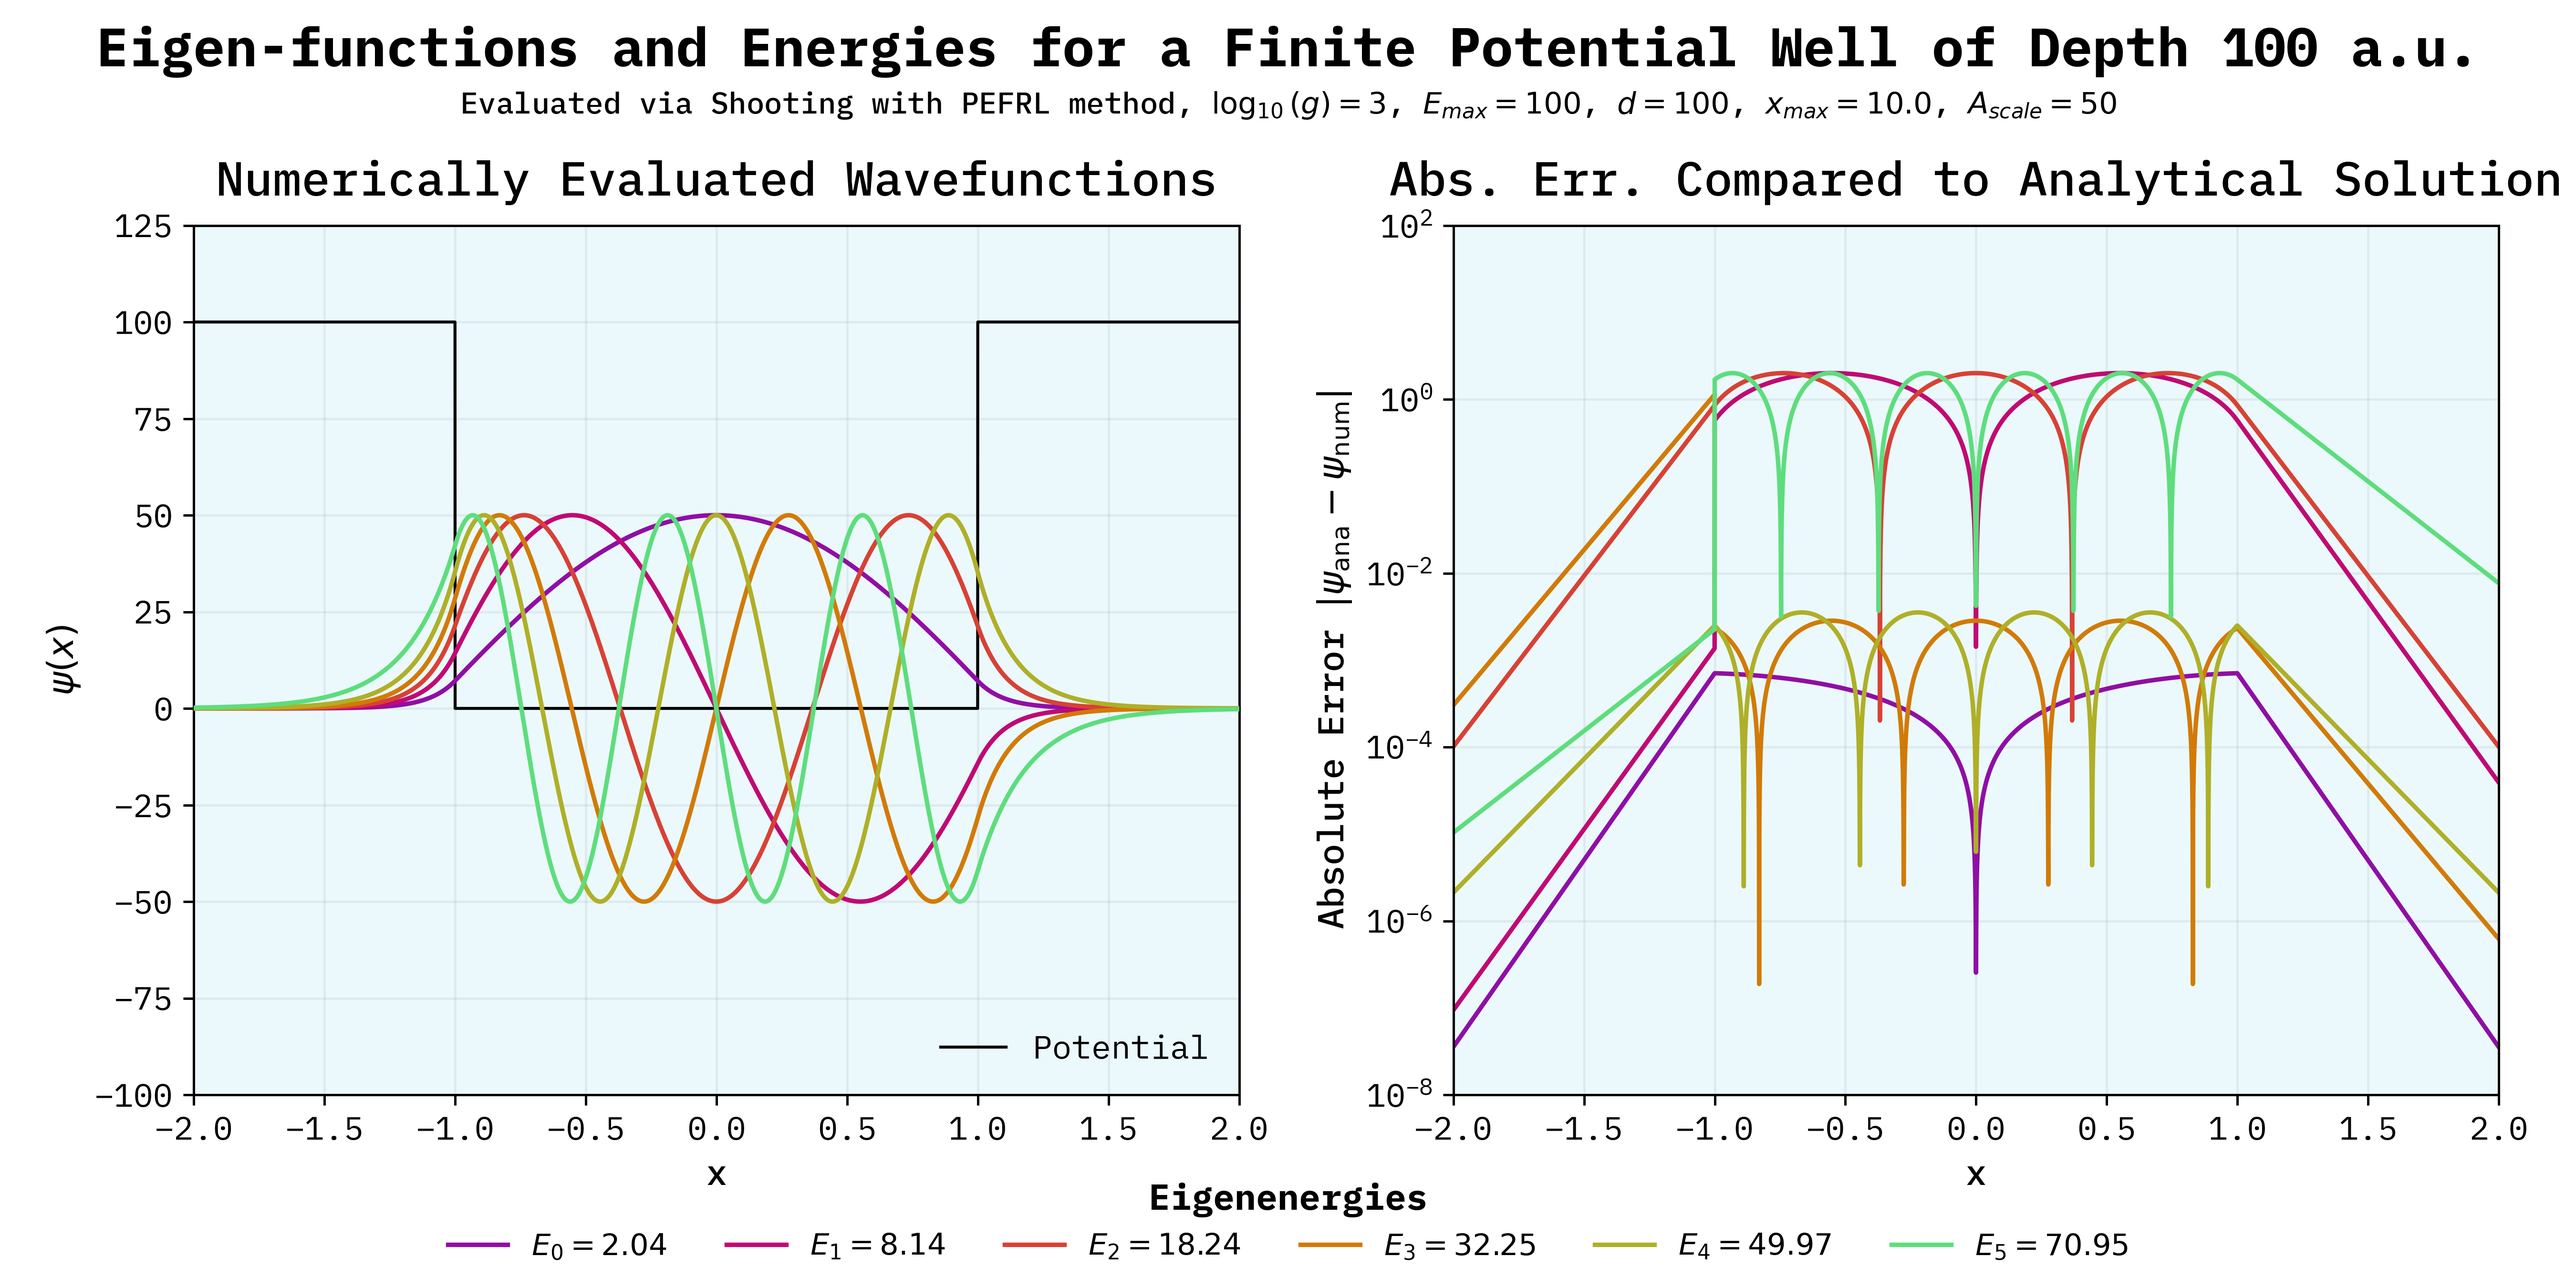
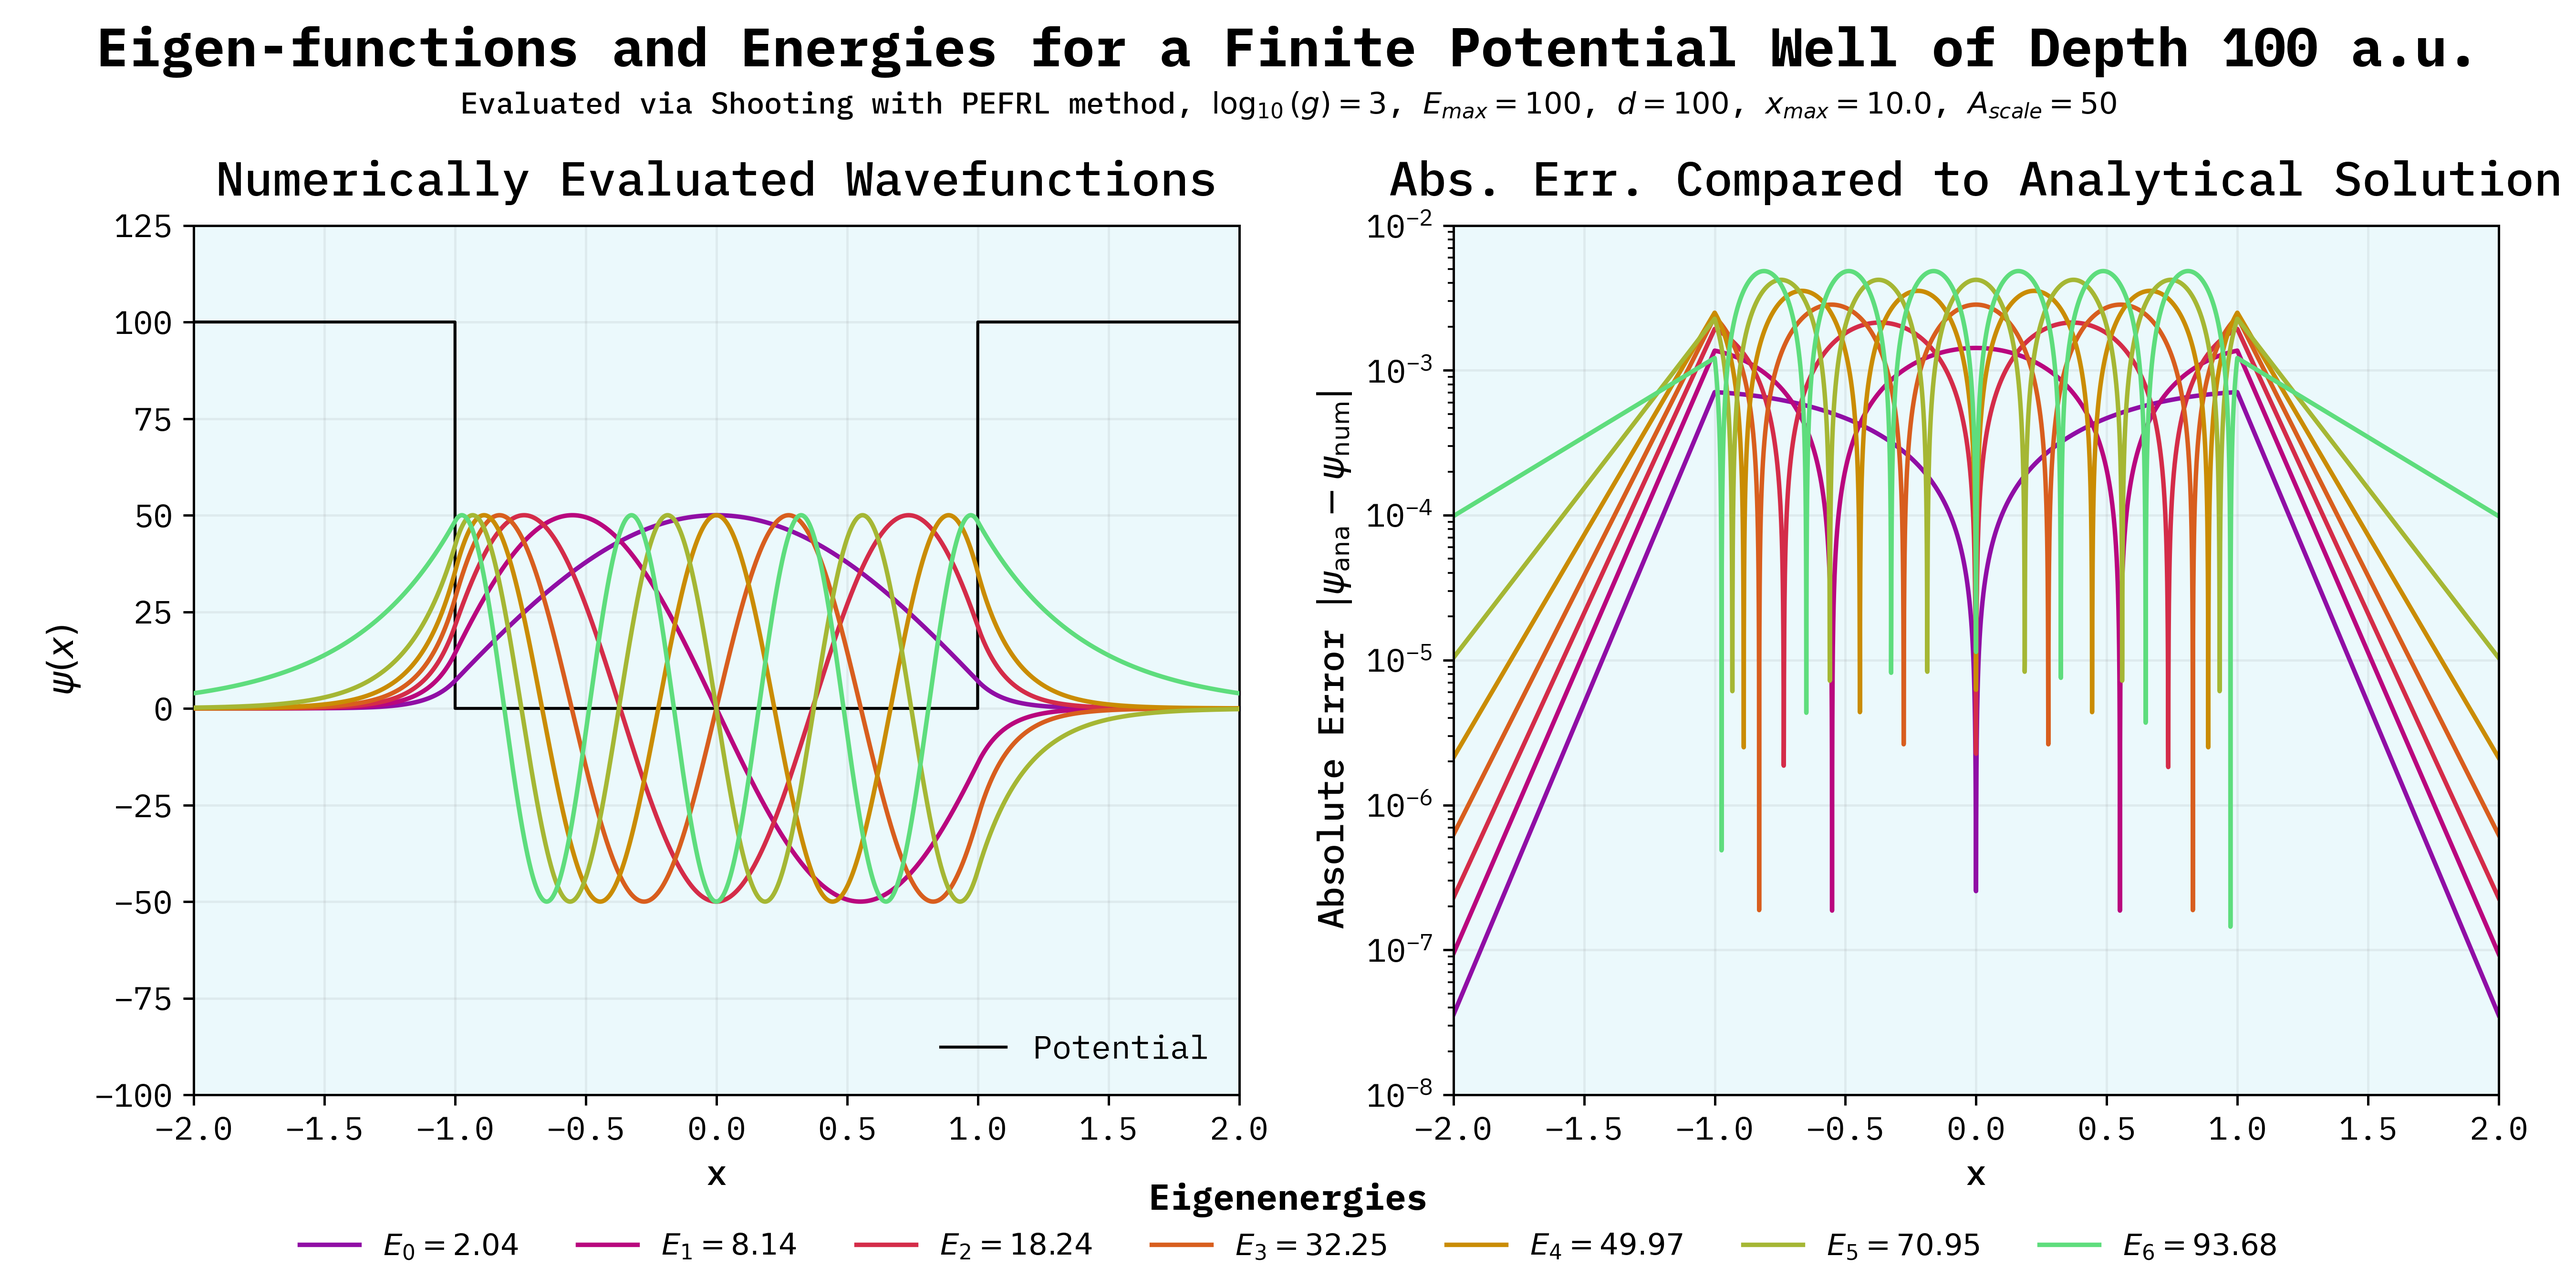
feat: :art: finish FPW plot

diff --git a/Code/fpw-plot.py b/Code/fpw-plot.py
@@ -9,7 +9,7 @@ import matplotlib as mpl
 import cmasher as cmr
 import os
 from time import time
-from src_shoot import finpotwell
+from src_shoot import finpotwell, finite_well_analytic
 
 mpl.style.use("./vrm.mplstyle")
 mpl.use("tkagg")
@@ -26,6 +26,8 @@ x_max = 10.0
 granularity_step = 1
 x_range = np.arange(-x_max, x_max + step_size, step_size)
 fn = f"./Data/particle_in_box_finite_upper{upper}_depth{depth}_step{step_size}_x{x_max}_gs{granularity_step}.npz"
+# Solved in test3.py via root finding on transcendental equations for even and odd states
+actual_eigenvalues = np.array([2.03790408, 8.13585428, 18.24225538, 32.25340119, 49.96922333, 70.95036449, 93.68079584])
 
 ts = time()
 if not os.path.exists(fn) or not CACHE:
@@ -43,10 +45,13 @@ te = time()
 print(f"Time taken: {te - ts:.2f} seconds")
 print(f"Found energy levels: {fpw_E}")
 
+# Recalculate analytical wavefunctions for the found eigenvalues
+fpw_ana = np.array([finite_well_analytic(fpw_x, E, i, depth, 1.0) for i, E in enumerate(actual_eigenvalues)])
+
 # Truncate all to keep only 6 eigenvalues
-fpw_psi = fpw_psi[:6]
-fpw_ana = fpw_ana[:6]
-fpw_E = fpw_E[:6]
+# fpw_psi = fpw_psi[:6]
+# fpw_ana = fpw_ana[:6]
+# fpw_E = fpw_E[:6]
 
 fig, ax = plt.subplots(1, 2, figsize=(12, 6))
 colors = cmr.take_cmap_colors("cmr.tropical", len(fpw_E), cmap_range=(0.0, 0.8))
@@ -61,15 +66,18 @@ ax[0].set_xlim(-2, 2)
 ax[0].set_ylim(-100, 125)
 ax[0].legend(frameon=False, loc="lower right")
 
+fpw_ana *= np.array([1, -1, -1, 1, 1, -1, -1])[:, np.newaxis]
+
 for i, (psi, ana) in enumerate(zip(fpw_psi, fpw_ana)):
-    ax[1].plot(fpw_x, aerr(ana, psi), label=f"$E_{i}={fpw_E[i]:.2f}$", color=colors[i])
-    # ax[1].plot(fpw_x, ana, label=f"$E_{i}={fpw_E[i]:.2f}$", color=colors[i], zorder=3)
+    label_str = f"$E_{i}={fpw_E[i]:.2f}$"
+    ax[1].plot(fpw_x, aerr(ana, psi), label=label_str, color=colors[i])
+    # ax[1].plot(fpw_x, ana, label=label_str, color=colors[i], zorder=3)
 
 ax[1].set_xlabel('x')
 ax[1].set_ylabel('Absolute Error $| \psi_{\\text{ana}} - \psi_{\\text{num}} |$')
 ax[1].set_title("Abs. Err. Compared to Analytical Solution")
 ax[1].set_xlim(-2, 2)
-ax[1].set_ylim(1e-8, 1e2)
+ax[1].set_ylim(1e-8, 1e-2)
 ax[1].set_yscale('log')
 
 

diff --git a/Code/src_shoot.py b/Code/src_shoot.py
@@ -195,8 +195,8 @@ def finite_well_analytic(x, energy, n, depth, a):
     k = np.sqrt(energy)
     kappa = np.sqrt((depth - energy))
 
-    print(f"Energy: {energy}, k: {k}, kappa: {kappa}")
-    print(np.cos(k*a))
+    # print(f"Energy: {energy}, k: {k}, kappa: {kappa}")
+    # print(np.cos(k*a))
 
     psi = np.zeros_like(x)
     interior = np.abs(x) < a
@@ -211,7 +211,7 @@ def finite_well_analytic(x, energy, n, depth, a):
     else:
         # A\sin(kx) for |x| < width, B\exp(-kappa|x|) for |x| > width
         psi[interior] = np.sin(k * x[interior])
-        psi[exterior] = np.sin(k * a) * np.exp(-kappa * (np.abs(x[exterior]) - a))
+        psi[exterior] = np.sin(k * a) * np.exp(-kappa * (np.abs(x[exterior]) - a)) * np.sign(x[exterior])
 
     # Normalize
     # norm = np.trapezoid(psi**2, x)
